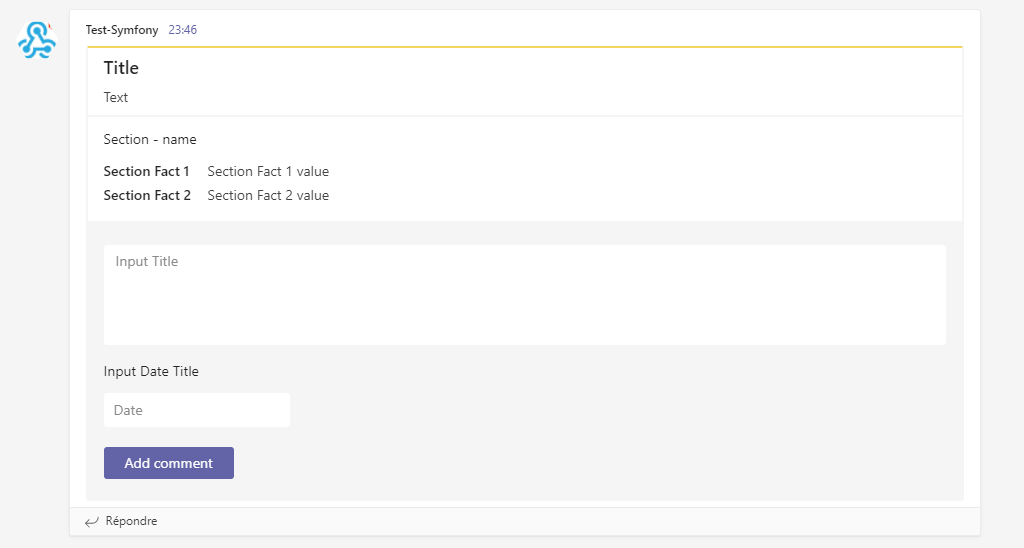
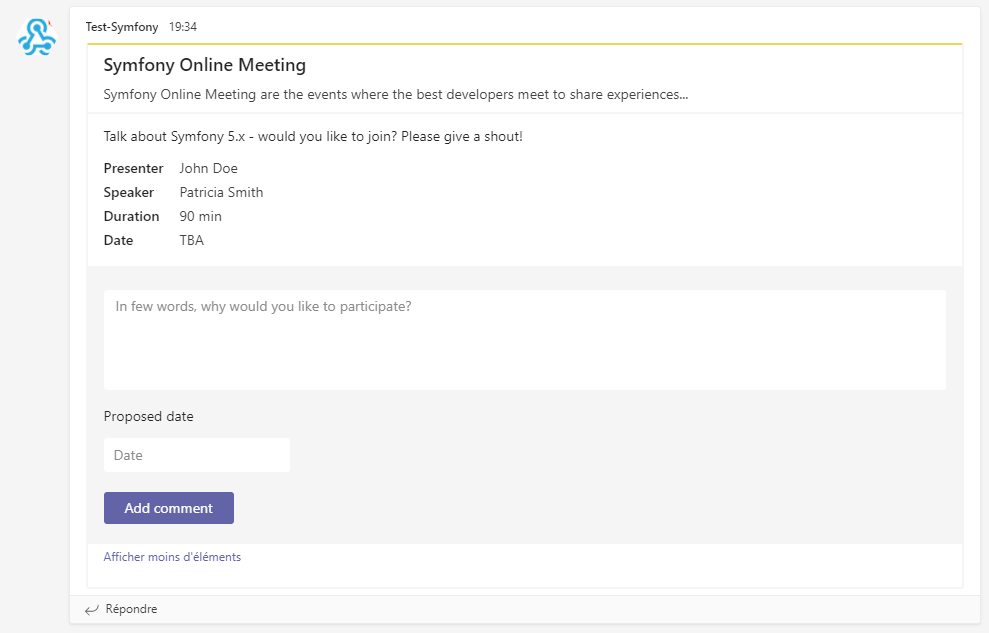
[Notifier] Documentation for Microsoft Teams Options
- some "real" values in the examples requested in review

diff --git a/notifier/chatters.rst b/notifier/chatters.rst
@@ -219,7 +219,7 @@ to add `message options`_::
     $chatter->send($chatMessage);
 
 Adding text to a Microsoft Teams Message
------------------------------------------
+----------------------------------------
 
 With a Microsoft Teams, you can use the simple ChatMessage::
 
@@ -235,7 +235,7 @@ The result will be something like:
    :align: center
 
 Adding Interactions to a Microsoft Teams Message
------------------------------------------
+------------------------------------------------
 
 With a Microsoft Teams Message, you can use the
 :class:`Symfony\\Component\\Notifier\\Bridge\\MicrosoftTeams\\MicrosoftTeamsOptions` class
@@ -256,31 +256,38 @@ to add `MessageCard options`_::
     // Action elements
     $input = new TextInput();
     $input->id('input_title');
-    $input->isMultiline(true)->maxLength(5)->title('Input Title');
+    $input->isMultiline(true)->maxLength(5)->title('In few words, why would you like to participate?');
 
     $inputDate = new DateInput();
-    $inputDate->title('Input Date Title')->id('input_date');
+    $inputDate->title('Proposed date')->id('input_date');
 
     // Create Microsoft Teams MessageCard
     $microsoftTeamsOptions = (new MicrosoftTeamsOptions())
-        ->text('Text')
-        ->title('Title')
+        ->title('Symfony Online Meeting')
+        ->text('Symfony Online Meeting are the events where the best developers meet to share experiences...')
         ->summary('Summary')
         ->themeColor('#F4D35E')
-        ->section(
-            (new Section())
-            ->title('Section - name')
+        ->section((new Section())
+            ->title('Talk about Symfony 5.x - would you like to join? Please give a shout!')
             ->fact((new Fact())
-                ->name('Section Fact 1')
-                ->value('Section Fact 1 value')
+                ->name('Presenter')
+                ->value('John Doe')
             )
             ->fact((new Fact())
-                ->name('Section Fact 2')
-                ->value('Section Fact 2 value')
+                ->name('Speaker')
+                ->value('Patricia Smith')
+            )
+            ->fact((new Fact())
+                ->name('Duration')
+                ->value('90 min')
+            )
+            ->fact((new Fact())
+                ->name('Date')
+                ->value('TBA')
             )
         )
         ->action((new ActionCard())
-            ->name('ActionCard - name')
+            ->name('ActionCard')
             ->input($input)
             ->input($inputDate)
             ->action((new HttpPostAction())
